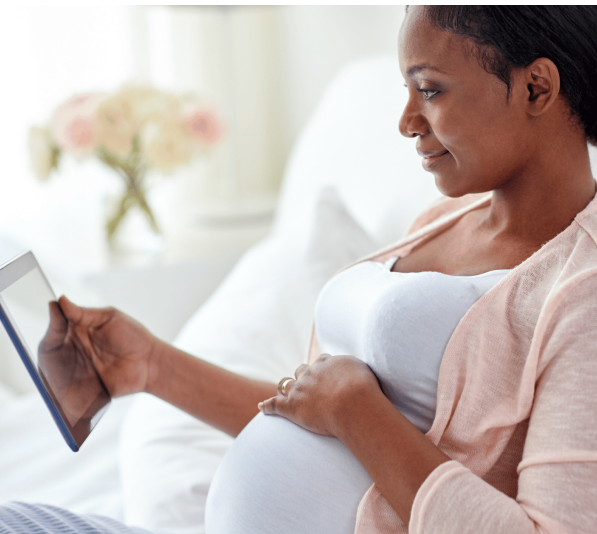
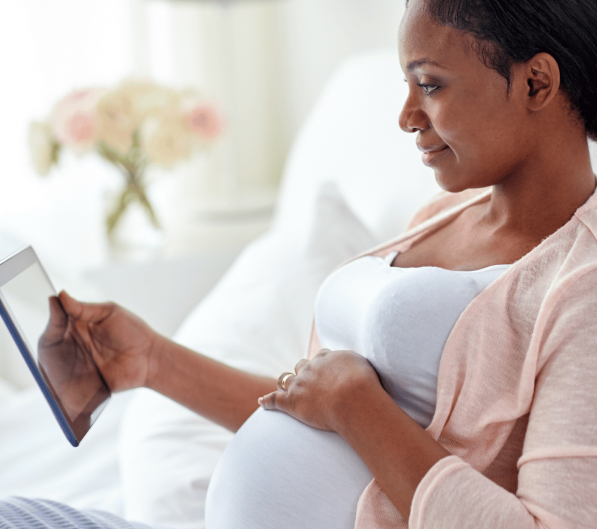
Cleaned up some photos. Added notation

diff --git a/src/pages/Homepage.jsx b/src/pages/Homepage.jsx
@@ -36,6 +36,7 @@ const Homepage = () => {
 
   return (
     <Container fluid className="homepage">
+
       {/* Navigation Bar */}
       <Navbar expand="lg" className="navbar-custom w-100">
         <Container fluid className="px-0">
@@ -86,19 +87,17 @@ const Homepage = () => {
 
       {/* Main Content Sections */}
       <Container fluid className="px-0">
-      <Row className="content-section section-1 mx-0 align-items-stretch">
-        <Col md={6} className="section-image d-flex">
-          <img 
-            src="/first.png" 
-            alt="Create Profile" 
-            className="img-fluid"
-          />
-        </Col>
+      <Row className="content-section section-1 mx-0">
+      <Col md={6} className="section-image">
+            <img 
+              src="/first.png" 
+              alt="Help" 
+              className="img-fluid" />
+          </Col>
         <Col md={5} className="text-center section-text d-flex flex-column justify-content-center">
-          <h3 style={{ fontFamily: "'Lato', serif" }}>Create your profile</h3>
+          <h3 style={{ fontFamily: "'Lato', serif" }}>Enter "The Melanated Sanctuary"</h3>
           <p>
-            Set up an account on your phone or desktop. It's best to use your name, a
-            photo of yourself, and a short bio that includes the topics you're into.
+          A personalized, culturally relevant guide, designed by and for melanated mamas, to navigate this journey with confidence and joy.
           </p>
         </Col>
       </Row>
@@ -113,11 +112,10 @@ const Homepage = () => {
               className="img-fluid" />
           </Col>
           <Col md={6} className="text-center section-text">
-            <h3 style={{ fontFamily: "'Lato', serif" }}>Explore and Curate</h3>
+            <h3 style={{ fontFamily: "'Lato', serif" }}>Explore & Curate</h3>
             <p>
-              Collect content into your own Magazine. It’s an easy way to save and organize articles, videos, photos,
-              podcasts, etc. You can create a Magazine for anything you can imagine — like planning a road trip, saving
-              recipes or sharing industry news.
+            Think of it as your own personal curated vision board for your pregnancy, birth, 
+            and postpartum journey—equipping you to prioritize your holistic well-being throughout.
             </p>
           </Col>
         </Row>
@@ -130,11 +128,10 @@ const Homepage = () => {
               className="img-fluid" />
           </Col>
           <Col md={5} className="text-center section-text">
-            <h3 style={{ fontFamily: "'Lato', serif" }}>Help and share the word</h3>
+            <h3 style={{ fontFamily: "'Lato', serif" }}>Help Spread the Word</h3>
             <p>
-              Set up an account on your phone or desktop. 
-              It's best to use your name, a photo of yourself and 
-              a short bio that includes the topics you're into.
+            We bridge the gap until healthcare and society offer the culturally competent care all mothers deserve. 
+            Together, let's rewrite the narrative and empower you and your community to own your maternal health.
             </p>
           </Col>
         </Row>
@@ -143,6 +140,7 @@ const Homepage = () => {
       {/* Footer Section */}
       <Container fluid className="footer-section footer-linking">
         <Row className="py-4">
+          
           {/* Column 1: Newsletter Section */}
           <Col md={4} className="text-center text-md-start">
             <h5>Receive our monthly newsletter</h5>

diff --git a/src/components/PermissionsModal.css b/src/components/PermissionsModal.css
@@ -10,17 +10,17 @@
 
 .custom-form-control {
   border-color: #000 !important;
-  border-radius: 50px !important; /* Change this to your desired border-radius */
+  border-radius: 50px !important;
 }
 
 .custom-form-control-date {
   border-color: #000 !important;
-  border-radius: 50px !important; /* Change this to your desired border-radius */
+  border-radius: 50px !important;
   width: 125px !important;
 }
 
 .custom-button-continuer {
-  border-radius: 50px !important; /* Customize the button border-radius separately if needed */
+  border-radius: 50px !important;
   width: 366px;
   color: #000 !important;
   background-color: #FBB3A8 !important;
@@ -29,7 +29,7 @@
 }
 
 .custom-button-skipper {
-  border-radius: 50px !important; /* Customize the button border-radius separately if needed */
+  border-radius: 50px !important;
   width: 366px;
   background-color: #643AFD !important;
   color: #ffffff !important;
@@ -45,14 +45,14 @@
 
 .custom-link {
   text-decoration: none; /* Removes the underline */
-  color: white; /* Ensures the text remains white (optional) */
+  color: white; /* Ensures the text remains white (optional :) */
   font-size: 1.3rem;
   font-weight: 700 !important;
 }
 
 .custom-link:hover {
-  text-decoration: underline; /* Optional: Add an underline on hover */
-  color: #f0f0f0; /* Optional: Slight color change on hover */
+  text-decoration: underline; /* Add an underline on hover */
+  color: #f0f0f0; /* Slight color change on hover */
 }
 
 .custom-link {

diff --git a/src/pages/Homepage.css b/src/pages/Homepage.css
@@ -171,12 +171,12 @@
   
   /* Customize text placement for each section if needed */
   .section-text h3 {
-    font-weight: 900;
-    font-size: 2rem;
+    font-weight: bold;
+    font-size: 36px;
     margin-bottom: 20px;
   }
   .section-text p {
-    font-size: 1.2rem !important;
+    font-size: 1.5rem !important;
   }
 
   .section-1 .section-text {
@@ -205,20 +205,20 @@
   }
   
 /* Image Container Styling */
+
 .section-image {
+  height: 100% !important;
   padding: 0 !important;  /* Ensure no padding */
   margin: 0 !important;   /* Ensure no margin */
   display: flex; /* Use flexbox to control child element */
-  justify-content: left !important; /* PUSHES THE IMAGE TO WHICHEVER END
-  align-items: center !important; /* Vertically align the image */
+  justify-content: left !important; /* PUSHES THE IMAGE TO WHICHEVER END */
 }
 
 .section-image-middle {
   padding: 0 !important;  /* Ensure no padding */
   margin: 0 !important;   /* Ensure no margin */
   display: flex; /* Use flexbox to control child element */
-  justify-content: right !important; /* PUSHES THE IMAGE TO WHICHEVER END
-  align-items: center !important; /* Vertically align the image */
+  justify-content: right !important; /* PUSHES THE IMAGE TO WHICHEVER END */
 }
   
   /* Media Queries for Responsiveness */

diff --git a/src/components/AccountCreated.css b/src/components/AccountCreated.css
@@ -9,7 +9,7 @@
   }
   
   .account-created-modal .modal-content {
-    background-image: url('/create_acc.png'); /* Replace with your image path */
+    background-image: url('/create_acc.png');
     background-position: center -100px !important;
     background-repeat: no-repeat;
     max-width: 570px !important; 
@@ -48,7 +48,7 @@
     border: none !important; /* Clean up unnecessary border */
     width: auto !important; /* Set to auto, but consider setting a percentage or fixed width if needed */
     box-sizing: border-box !important;
-    border-radius: 50px !important; /* Consider using pixel values for more predictable radius */
+    border-radius: 50px !important;
     display: inline-block !important; /* Ensures it maintains content-driven width */
 }
   

diff --git a/src/components/SignUpModal.css b/src/components/SignUpModal.css
@@ -23,7 +23,7 @@
     border-color: #ffffff !important;
     border-radius: 50px !important;
     color: #ffffff !important; /* Text color */
-    padding: 0.5rem; /* Optional: Add padding for better appearance */
+    padding: 0.5rem; /* Add padding for better appearance */
   }
   
   /* Placeholder styling */
@@ -40,7 +40,7 @@
     background-color: #643AFD !important;
     color: #ffffff !important;
     border: 2px solid #ffffff !important; /* Ensure border is solid white */
-    padding: 0.5rem; /* Optional: Add padding for better appearance */
+    padding: 0.5rem; /* Add padding for better appearance */
   }
   
   /* Adjust the appearance of the placeholder (for older browsers or support) */

diff --git a/src/components/PermissionsModal.jsx b/src/components/PermissionsModal.jsx
@@ -52,7 +52,12 @@ const PermissionsModal = ({ show, handleClose, onSkip, onContinue }) => {
         </div>
 
         {/* White Side */}
-        <div style={{ width: "67%", backgroundColor: "#6338FD", padding: "2rem", position: "relative" }}>
+        <div style={{ 
+              width: "67%", 
+              backgroundColor: "#6338FD", 
+              padding: "2rem", 
+              position: "relative" }}>
+                
           {/* Close Button */}
           <Button
             variant="light"

diff --git a/src/components/AccountCreated.jsx b/src/components/AccountCreated.jsx
@@ -14,7 +14,7 @@ const AccountCreated = ({ show, handleClose }) => {
       <div className="account-created-content">
         {/* Welcome Message */}
         <h1 className="fade-in-text">Creating Account...</h1>
-        {/* Continue Button */}
+        {/* Continue Button IF we want to have a button in this portion OR we can just have it fade away and open the new page*/} 
         {/* <Button className="continue-button mt-4" onClick={handleClose}>
           Continue to profile
         </Button> */}

diff --git a/src/components/SignUpModal.jsx b/src/components/SignUpModal.jsx
@@ -59,6 +59,7 @@ const SignUpModal = ({ show, handleClose, onSubmit }) => {
 
         {/* White Side */}
         <div className='signup-modal-right'>
+          
           {/* Close Button */}
           <Button
             variant="light"
